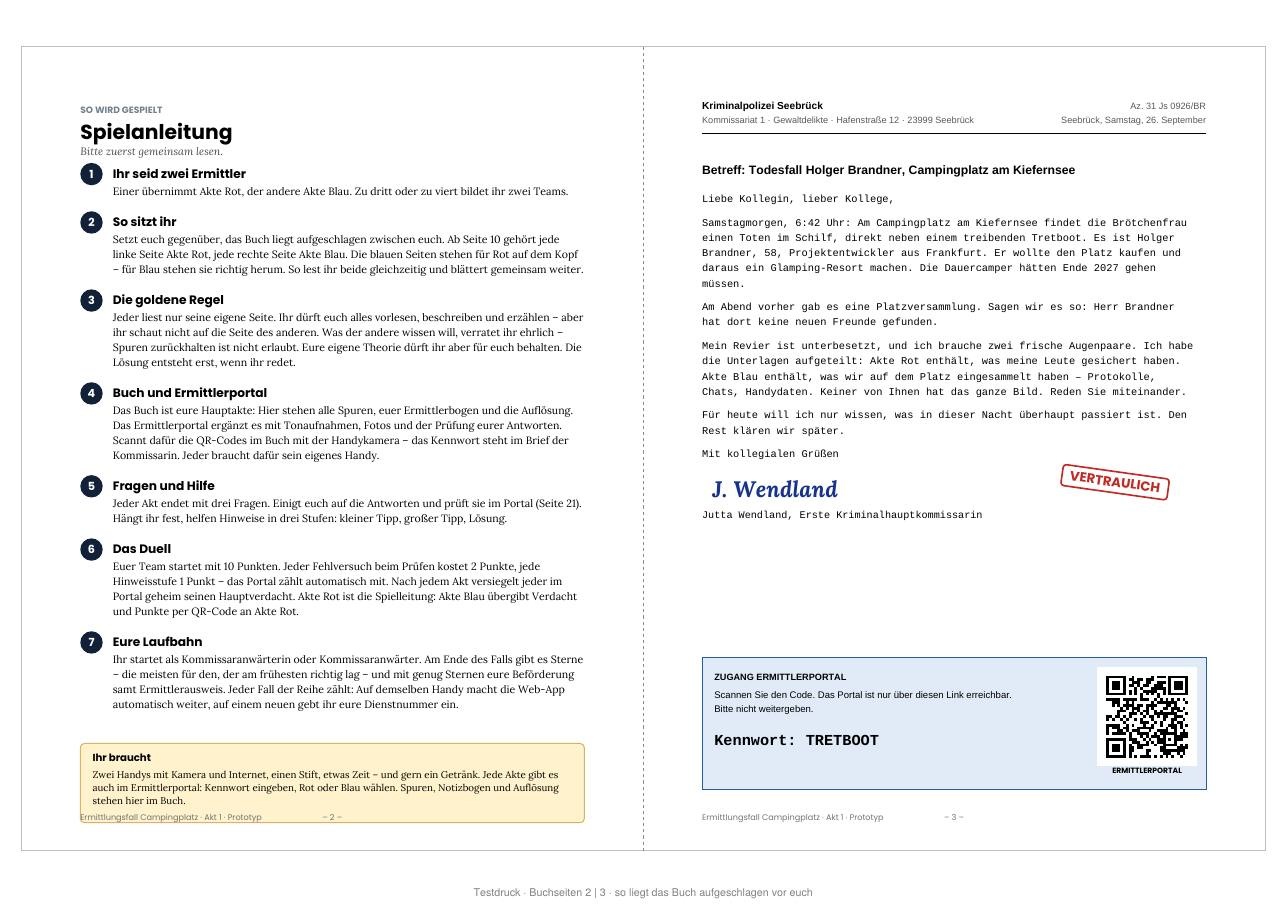
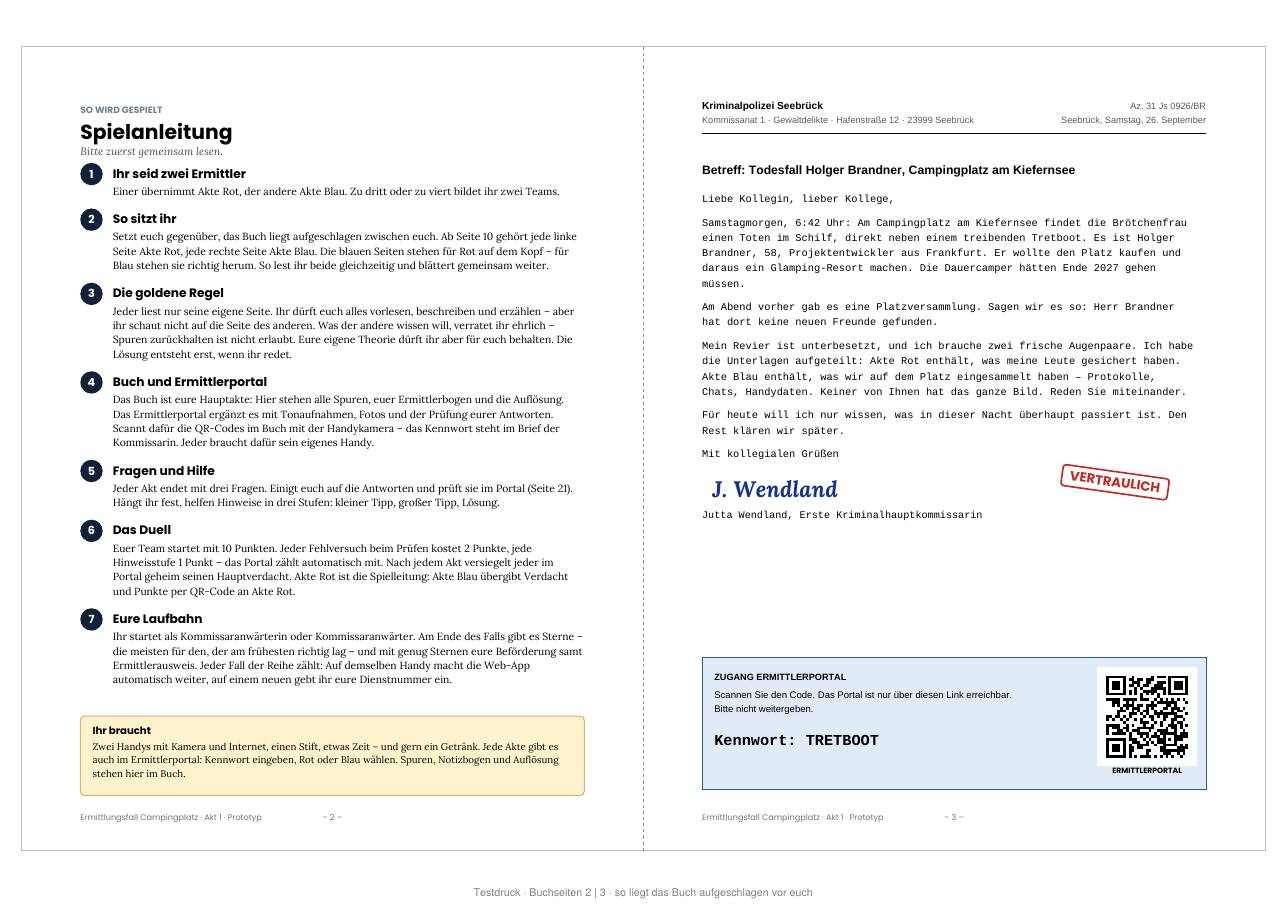
Spielanleitung: Abstände angepasst
Claude-Session: https://claude.ai/code/session_01AHTeNhKiCXfFq7WDMQCHQc

Changed region(s): [[0.0622, 0.1846, 0.4662, 0.9231]]

diff --git a/quellen/build_farbe.py b/quellen/build_farbe.py
@@ -247,7 +247,7 @@ def rules_page():
         fc(NIGHT); c.circle(ML + 11, y + 4, 11, fill=1, stroke=0)
         c.setFillGray(1); c.setFont("SansB", 11); c.drawCentredString(ML + 11, y, str(i)); c.setFillGray(0)
         c.setFont("SansB", 12); c.drawString(ML + 32, y, h)
-        y = text(ML + 32, y - 17, W - MR - ML - 32, t, "Serif", 10.4, 14.6) - 8
+        y = text(ML + 32, y - 17, W - MR - ML - 32, t, "Serif", 10.2, 14.1) - 6
     y -= 4
     c.setFillColorRGB(1, 0.95, 0.80); c.setStrokeColorRGB(0.85, 0.7, 0.4); c.roundRect(ML, y - 78, W - ML - MR, 78, 4, fill=1, stroke=1)
     c.setFillGray(0); c.setFont("SansB", 10); c.drawString(ML + 12, y - 18, "Ihr braucht")
